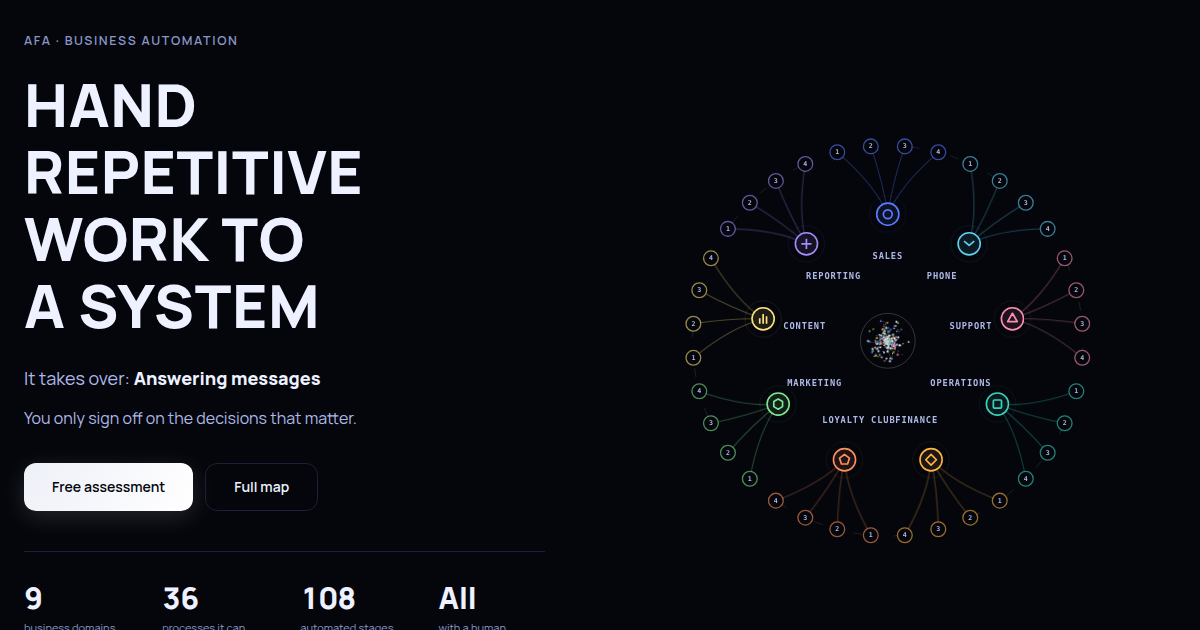
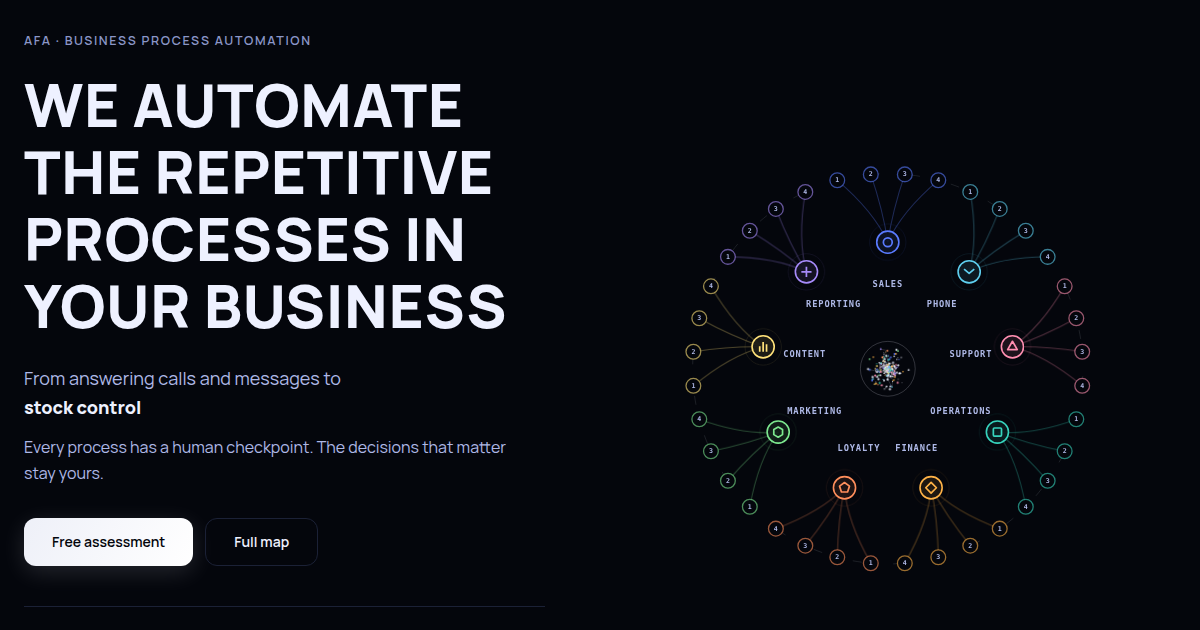
Rewrite the hero copy in a formal register; stop a label collision in English
The hero copy was not liked: the imperative «بسپارید» and the line under it
both had to go, for something more formal and more comprehensive.

It now states what the company does rather than telling the visitor what to
do: «فرایندهای تکراری کسبوکارتان را خودکار میکنیم». The line under it
became a range rather than a list, with the jobs cycling through the end of
it: «از پاسخ به تماس و پیام تا [ثبت سفارش / کنترل موجودی / صدور فاکتور /
پیگیری مشتری / تولید محتوا / گزارش مدیریتی]». The sentence below carries the
differentiator in full: every process has a human checkpoint, and the
decisions that matter stay yours. English is the same move, rewritten.

Found while checking the render: at nine domains the English map printed
«Loyalty club» straight through «Finance». Measured in a browser rather than
guessed, and fixed twice over. The name is «Loyalty» now, since the tag line
under it already says membership, points and win-back; and the component
drops a long label a size step so any future long name shrinks instead of
colliding. A test caps domain titles at sixteen characters so nobody has to
remember the rule.

Claude-Session: https://claude.ai/code/session_015BLkfHjPPSwAr5JaNHyunu

diff --git a/src/components/tools/capability-map.tsx b/src/components/tools/capability-map.tsx
@@ -622,8 +622,18 @@ function DomainVolume({
           <circle className="tmapHubRing" cx={hub.x} cy={hub.y} r={HUB_R} />
           <HubGlyph glyph={hub.glyph} x={hub.x} y={hub.y} r={HUB_R * 0.4} />
           {/* Inward, into the empty annulus — the one place nothing else
-              wants, so the name never fights a node or a curve. */}
-          <text className="tmapHubLabel" x={hub.lx} y={hub.ly + 5}>
+              wants, so the name never fights a node or a curve.
+
+              At nine domains the label arc is ~112 units wide, which is about
+              nine Latin capitals. `data-long` drops the size a step for
+              anything over that, so a long name shrinks instead of printing
+              into its neighbour (which is exactly what «Loyalty club» did). */}
+          <text
+            className="tmapHubLabel"
+            data-long={domainCopy.title.length > 10 || undefined}
+            x={hub.lx}
+            y={hub.ly + 5}
+          >
             {domainCopy.title}
           </text>
         </g>

diff --git a/test/capability-map.test.ts b/test/capability-map.test.ts
@@ -332,6 +332,21 @@ describe('operating map — content', () => {
     }
   });
 
+  it('keeps domain names short enough for the label ring', () => {
+    // Nine domains means ~112 viewBox units of arc per label. The component
+    // shrinks anything over ten characters, and past about sixteen even the
+    // shrunk size runs into its neighbour, so the copy has to stay short.
+    for (const catalog of [fa, en]) {
+      const map = (catalog as Record<string, unknown>).Map as {
+        domains: Record<string, { title: string }>;
+      };
+      for (const domain of DOMAINS) {
+        const title = map.domains[domain.id]!.title;
+        expect(title.length, `Map.domains.${domain.id}.title is too long`).toBeLessThanOrEqual(16);
+      }
+    }
+  });
+
   it('has no orphan copy for a node that is not on the map', () => {
     const declared = new Set<string>(PROCESS_IDS);
     const written = Object.keys(

diff --git a/src/styles/capability-map.css b/src/styles/capability-map.css
@@ -306,6 +306,8 @@ html[lang='fa'] .tmapHubLabel {
   letter-spacing: 0;
   font-size: 17.5px;
 }
+.tmapHubLabel[data-long] { font-size: 13.5px; letter-spacing: 0.04em; }
+html[lang='fa'] .tmapHubLabel[data-long] { font-size: 15px; letter-spacing: 0; }
 .tmapNode:hover .tmapHubLabel,
 .tmapNode:focus-visible .tmapHubLabel,
 .tmapNode[aria-pressed='true'] .tmapHubLabel { fill: var(--tone); }
